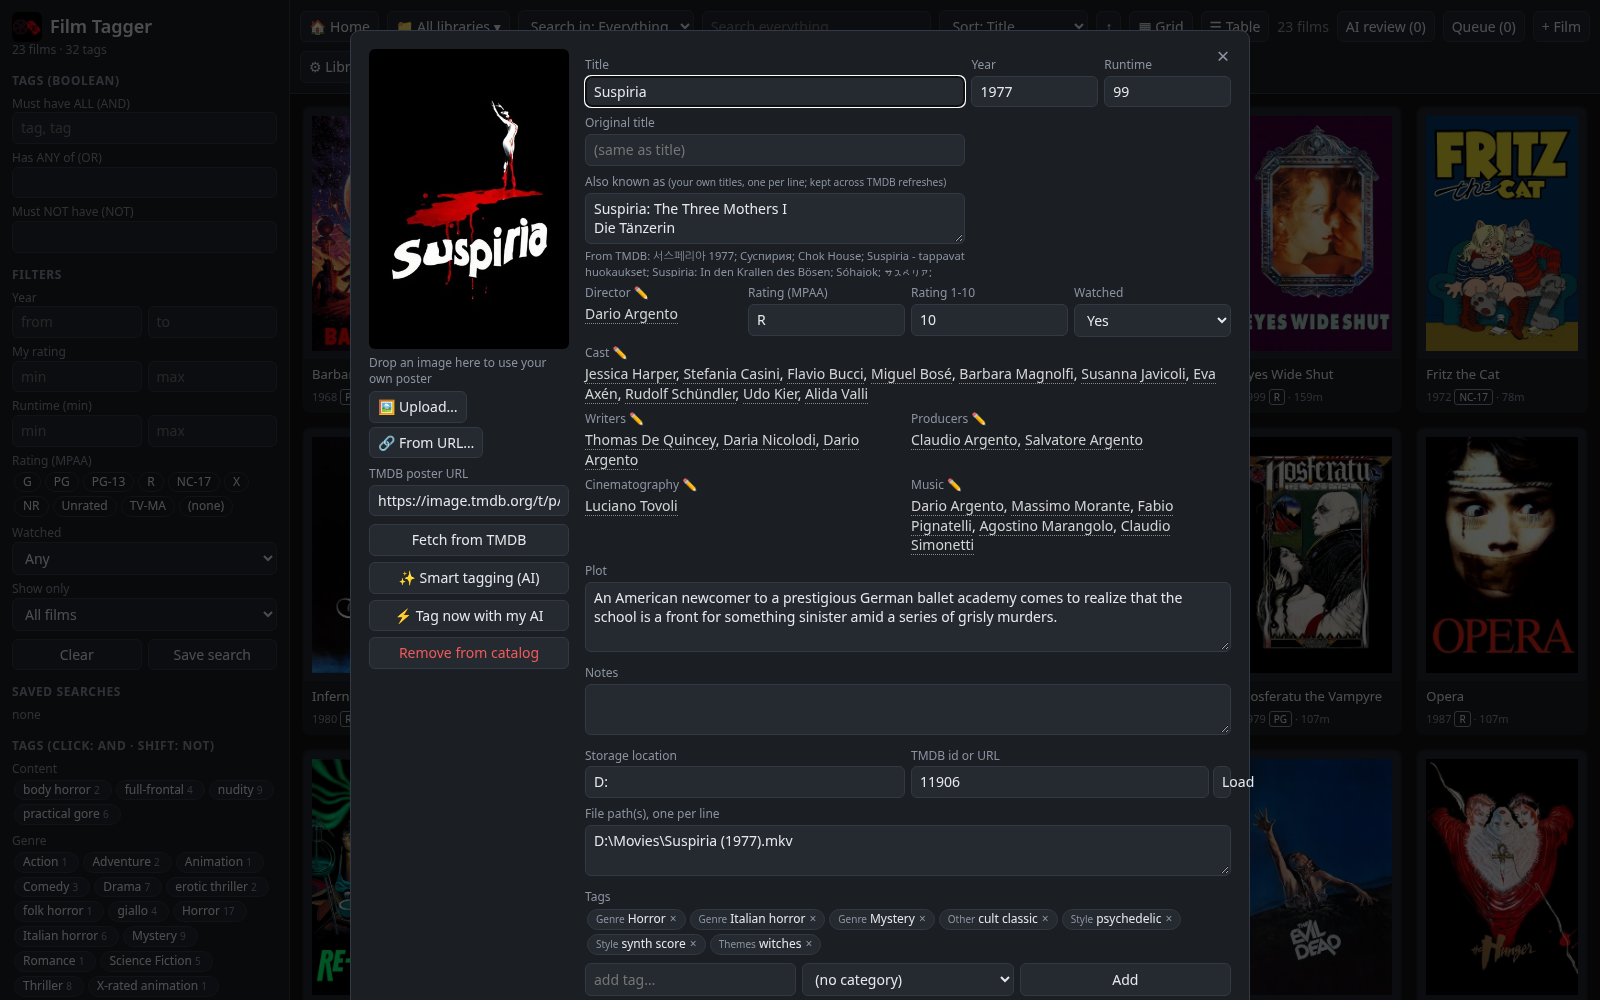
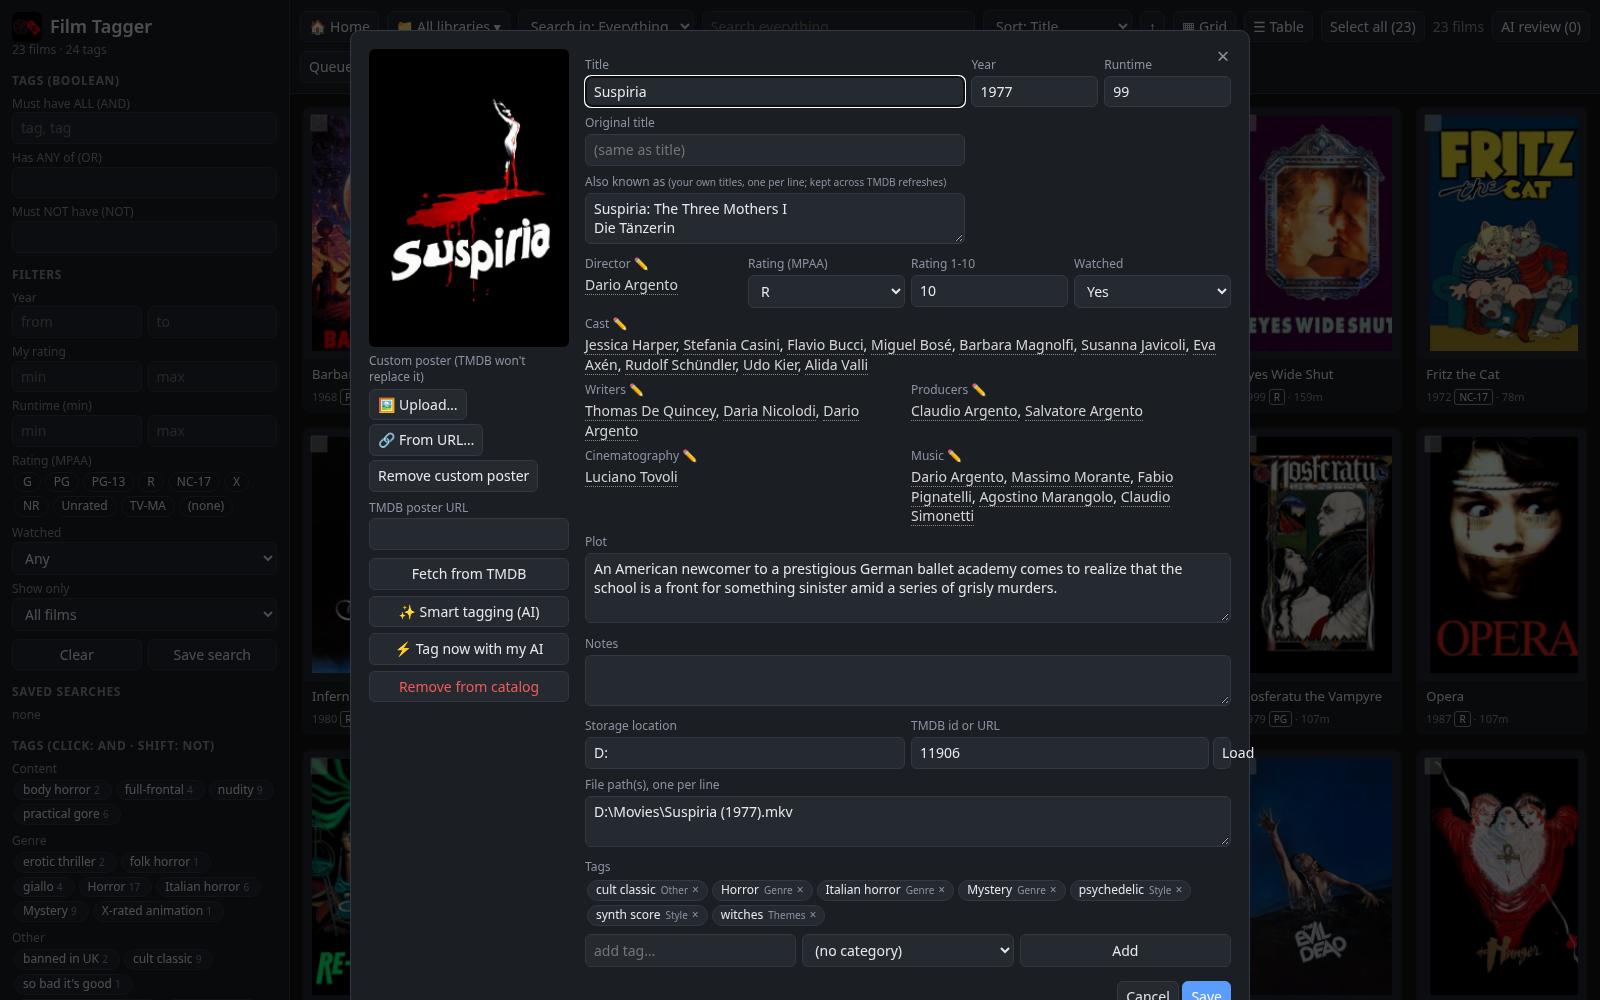
1.0.3: bulk MPAA rating; retake detail screenshot with name-first tag chips; add bulk bar screenshot

diff --git a/README.md b/README.md
@@ -39,6 +39,10 @@ Tag search:
 
 ![Tag search](docs/screenshots/4-tag-search.png)
 
+Bulk edit (set the MPAA rating on selected films):
+
+![Bulk MPAA rating](docs/screenshots/5-bulk-mpaa.png)
+
 ## Install
 - **Windows (recommended):** download and run **`FilmTaggerSetup.exe`**. It installs per user into `%LOCALAPPDATA%\Film Tagger` with a bundled Python 3.12, so no admin rights are needed. It adds Start Menu and (optionally) Desktop and sign-in shortcuts and an entry in *Apps* for uninstalling. Your library (`films.db` + `posters/`) lives in `%LOCALAPPDATA%\Film Tagger\data` and survives upgrades. See [INSTALL.txt](INSTALL.txt).
   - Silent install: `FilmTaggerSetup.exe /S [/D=C:\path] [/NODESKTOP] [/STARTUP] [/PORT=5051]`. Silent uninstall (keeps the library): `uninstall.exe /S`.
